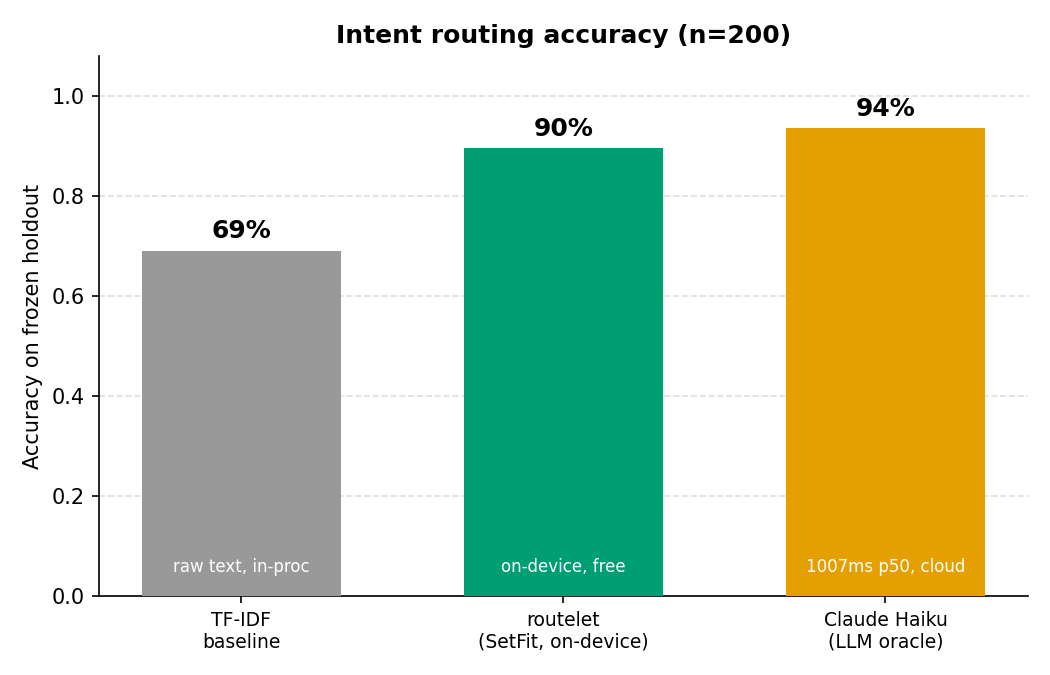
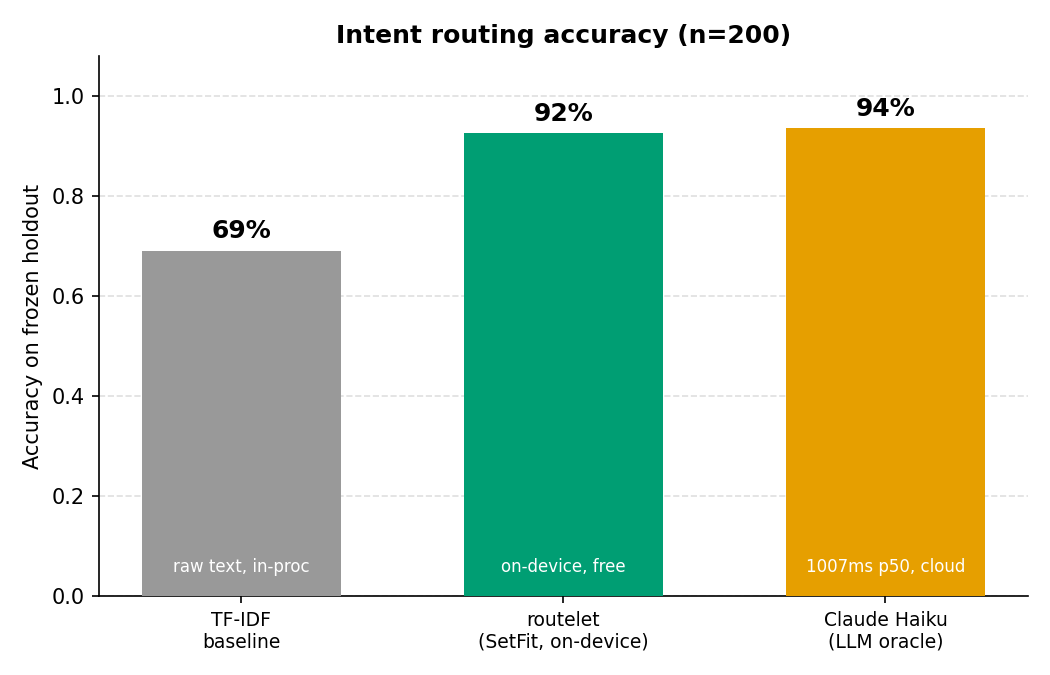
Add OOD deferral analysis to the report
report.py scores an OOD/garbled probe set next to the holdout and adds two
figures: a confidence histogram and a deferral-tradeoff curve. They show
routelet is overconfident (max-softmax ~0.98 even on gibberish), so the 0.55
gate deferred almost nothing; ~0.95 is the usable operating point.

Changed region(s): [[0.4267, 0.1556, 0.64, 0.2178]]

diff --git a/report/report.py b/report/report.py
@@ -37,12 +37,21 @@ HOLDOUT = PROJECT_ROOT / "evals" / "holdout.jsonl"
 TFIDF_MODEL = PROJECT_ROOT / "models" / "baseline.joblib"
 SETFIT_DIR = PROJECT_ROOT / "models" / "setfit"
 BASELINES = PROJECT_ROOT / "report" / "baselines.json"
+OOD_PROBE = PROJECT_ROOT / "report" / "ood_probe.txt"
 OUT_DIR = PROJECT_ROOT / "report"
 
 # Okabe-Ito (colorblind-safe). Gray baseline, green hero (routelet), amber oracle.
 C_TFIDF = "#999999"
 C_ROUTELET = "#009E73"
 C_HAIKU = "#E69F00"
+# In-distribution vs OOD: blue and vermillion, distinguishable for colorblind
+# readers (and labeled, so not relying on hue alone).
+C_INDIST = "#0072B2"
+C_OOD = "#D55E00"
+
+# Routelet's on-device confidence gate: below this, Aegis defers to the Claude
+# fallback. Mirrors ROUTELET_CONFIDENCE_THRESHOLD in the aegis crate's tuning.rs.
+GATE = 0.55
 
 
 def score_tfidf(texts: list[str], gold: list[str]) -> float:
@@ -53,15 +62,57 @@ def score_tfidf(texts: list[str], gold: list[str]) -> float:
     return float(accuracy_score(gold, preds))
 
 
-def score_setfit(texts: list[str], gold: list[str]) -> float:
-    """The shipped SetFit model. Trained on preprocess()'d text, so score the
-    same way. This is the fine-tuned bge-small body + LR head in torch; int8
-    ONNX (what Rust actually runs) is verified equivalent at export time."""
+def _load_temperature() -> float:
+    """The calibrated temperature baked into the model dir, or 1.0 if absent.
+    Must match what Aegis applies so the gate confidence here equals production."""
+    path = SETFIT_DIR / "temperature.json"
+    if path.exists():
+        return float(json.loads(path.read_text())["temperature"])
+    return 1.0
+
+
+def load_setfit() -> dict:
+    """Load the shipped SetFit model once into a reusable bundle (body + head
+    weights + calibrated temperature), so the holdout and the OOD probe can both
+    be scored without reloading the model."""
     from setfit import SetFitModel
 
     model = SetFitModel.from_pretrained(str(SETFIT_DIR))
-    preds = list(model.predict([preprocess(t) for t in texts]))
-    return float(accuracy_score(gold, preds))
+    head = model.model_head
+    return {
+        "body": model.model_body,
+        "coef": head.coef_,
+        "intercept": head.intercept_,
+        "labels": head.classes_.tolist(),
+        "temperature": _load_temperature(),
+    }
+
+
+def setfit_predict(bundle: dict, texts: list[str]) -> tuple[np.ndarray, list[str]]:
+    """Run the model the way Aegis does: embed preprocess()'d text, apply the LR
+    head, temperature-scale, softmax, argmax. Returns (max-softmax confidence per
+    row, predicted labels). The int8 ONNX Aegis ships is verified equivalent at
+    export time."""
+    emb = bundle["body"].encode(
+        [preprocess(t) for t in texts], convert_to_numpy=True, show_progress_bar=False
+    )
+    logits = (emb @ bundle["coef"].T + bundle["intercept"]) / bundle["temperature"]
+    logits -= logits.max(axis=1, keepdims=True)
+    probs = np.exp(logits)
+    probs /= probs.sum(axis=1, keepdims=True)
+    idx = probs.argmax(axis=1)
+    conf = probs[np.arange(len(idx)), idx]
+    preds = [bundle["labels"][i] for i in idx]
+    return conf, preds
+
+
+def load_ood_probes() -> list[str]:
+    """Read the OOD/garbled probe lines (skipping blanks and # comments)."""
+    return [
+        ln.strip()
+        for ln in OOD_PROBE.read_text().splitlines()
+        if ln.strip() and not ln.lstrip().startswith("#")
+    ]
 
 
 def load_haiku(eval_n: int) -> dict | None:
@@ -123,6 +174,88 @@ def plot_model_comparison(metrics: dict) -> Path:
     return out
 
 
+def plot_confidence_histogram(indist: np.ndarray, ood: np.ndarray, gate: float) -> Path:
+    """Figure 2: routelet confidence on in-distribution holdout vs OOD/garbled
+    probes, with the gate line. The cascade works if in-distribution input sits
+    above the gate (kept on-device) while OOD input falls below it (deferred to
+    Claude). Overlapping (not stacked) histograms, densities so the two groups
+    are comparable despite different counts."""
+    bins = np.linspace(0.0, 1.0, 21)
+    fig, ax = plt.subplots(figsize=(7, 4.5))
+    ax.hist(indist, bins=bins, color=C_INDIST, alpha=0.6, density=True,
+            label=f"in-distribution holdout (n={len(indist)})", zorder=3)
+    ax.hist(ood, bins=bins, color=C_OOD, alpha=0.7, density=True,
+            label=f"OOD / garbled probe (n={len(ood)})", zorder=3)
+
+    ax.axvline(gate, color="black", linestyle="--", linewidth=1.2, zorder=4)
+    ymax = ax.get_ylim()[1]
+    ax.text(gate - 0.012, ymax * 0.96, f"{gate:.2f} gate", ha="right", va="top", fontsize=9)
+    ax.text(gate - 0.012, ymax * 0.55, "← defer to Claude", ha="right", fontsize=8, color="#555")
+    ax.text(gate + 0.012, ymax * 0.55, "kept on-device →", ha="left", fontsize=8, color="#555")
+
+    ood_deferred = int((ood < gate).sum())
+    indist_kept = int((indist >= gate).sum())
+    ax.set_title(
+        f"OOD defers {ood_deferred}/{len(ood)}, in-distribution keeps "
+        f"{indist_kept}/{len(indist)} at the {gate:.2f} gate",
+        fontsize=11, fontweight="bold",
+    )
+    ax.set_xlabel("routelet confidence (temperature-scaled max softmax)")
+    ax.set_ylabel("density")
+    ax.set_xlim(0, 1)
+    ax.legend(frameon=False, loc="upper left")
+    ax.yaxis.grid(True, linestyle="--", alpha=0.4, zorder=0)
+    ax.set_axisbelow(True)
+    for spine in ("top", "right"):
+        ax.spines[spine].set_visible(False)
+    fig.tight_layout()
+
+    out = OUT_DIR / "confidence_histogram.png"
+    fig.savefig(out, dpi=150)
+    plt.close(fig)
+    return out
+
+
+def plot_deferral_tradeoff(indist: np.ndarray, ood: np.ndarray, gate: float) -> Path:
+    """Figure 3: as the confidence cutoff rises, what fraction of in-distribution
+    commands get wrongly deferred to Claude vs what fraction of OOD/garbled input
+    gets caught. The two lines never separate cleanly, which is why no cutoff
+    makes the gate work: catching OOD means deferring real commands too."""
+    thresholds = np.linspace(0.5, 1.0, 101)
+    id_deferred = np.array([(indist < t).mean() for t in thresholds]) * 100
+    ood_caught = np.array([(ood < t).mean() for t in thresholds]) * 100
+
+    fig, ax = plt.subplots(figsize=(7.5, 4.5))
+    ax.plot(thresholds, ood_caught, color=C_OOD, linewidth=2.4,
+            label="OOD / garbled caught (good)", zorder=3)
+    ax.plot(thresholds, id_deferred, color=C_INDIST, linewidth=2.4,
+            label="real commands wrongly deferred (bad)", zorder=3)
+
+    ax.axvline(gate, color="#777", linestyle="--", linewidth=1.2, zorder=2)
+    ax.text(gate, 102, f"current cutoff {gate:.2f}", ha="center", va="bottom",
+            fontsize=8, color="#555")
+
+    ax.set_xlabel("confidence cutoff (defer to Claude below it)")
+    ax.set_ylabel("% of inputs deferred")
+    ax.set_title(
+        "The 0.55 cutoff is too low: ~0.95 catches far more garbage at little cost",
+        fontsize=11, fontweight="bold",
+    )
+    ax.set_xlim(0.5, 1.0)
+    ax.set_ylim(0, 105)
+    ax.legend(loc="upper left", frameon=False)
+    ax.grid(True, linestyle="--", alpha=0.4, zorder=0)
+    ax.set_axisbelow(True)
+    for spine in ("top", "right"):
+        ax.spines[spine].set_visible(False)
+    fig.tight_layout()
+
+    out = OUT_DIR / "deferral_tradeoff.png"
+    fig.savefig(out, dpi=150)
+    plt.close(fig)
+    return out
+
+
 def main() -> None:
     examples = load(HOLDOUT)
     texts = [e.text for e in examples]
@@ -132,13 +265,36 @@ def main() -> None:
     print(f"scoring on {eval_n}-row holdout")
     tfidf_acc = score_tfidf(texts, gold)
     print(f"  TF-IDF  {tfidf_acc:.3f}")
-    setfit_acc = score_setfit(texts, gold)
+
+    bundle = load_setfit()
+    conf, preds = setfit_predict(bundle, texts)
+    correct = np.array([p == g for p, g in zip(preds, gold)])
+    setfit_acc = float(correct.mean())
     print(f"  SetFit  {setfit_acc:.3f}")
+
+    # OOD/garbled probe: confidence on inputs the gate is meant to defer.
+    ood_texts = load_ood_probes()
+    ood_conf, _ = setfit_predict(bundle, ood_texts)
+
+    # Confidence gate operating point: what the cascade does at GATE.
+    indist_kept = conf >= GATE
+    ood_deferred = ood_conf < GATE
+    gate_stats = {
+        "threshold": GATE,
+        "in_distribution_kept_share": round(float(indist_kept.mean()), 3),
+        "ood_deferred_share": round(float(ood_deferred.mean()), 3),
+        "kept_accuracy": (
+            round(float(correct[indist_kept].mean()), 3) if indist_kept.any() else None
+        ),
+    }
+    print(f"  gate {GATE}: in-dist keeps {gate_stats['in_distribution_kept_share']:.0%}, "
+          f"OOD defers {gate_stats['ood_deferred_share']:.0%}")
 
     metrics: dict = {
         "eval_n": eval_n,
         "tfidf": {"accuracy": tfidf_acc},
         "setfit": {"accuracy": setfit_acc},
+        "gate": gate_stats,
     }
     haiku = load_haiku(eval_n)
     if haiku:
@@ -150,8 +306,9 @@ def main() -> None:
             print(f"  Haiku   {haiku['accuracy']:.3f}  (cached)")
 
     (OUT_DIR / "metrics.json").write_text(json.dumps(metrics, indent=2) + "\n")
-    fig = plot_model_comparison(metrics)
-    print(f"wrote {fig}")
+    print(f"wrote {plot_model_comparison(metrics)}")
+    print(f"wrote {plot_confidence_histogram(conf, ood_conf, GATE)}")
+    print(f"wrote {plot_deferral_tradeoff(conf, ood_conf, GATE)}")
     print(f"wrote {OUT_DIR / 'metrics.json'}")
 
 